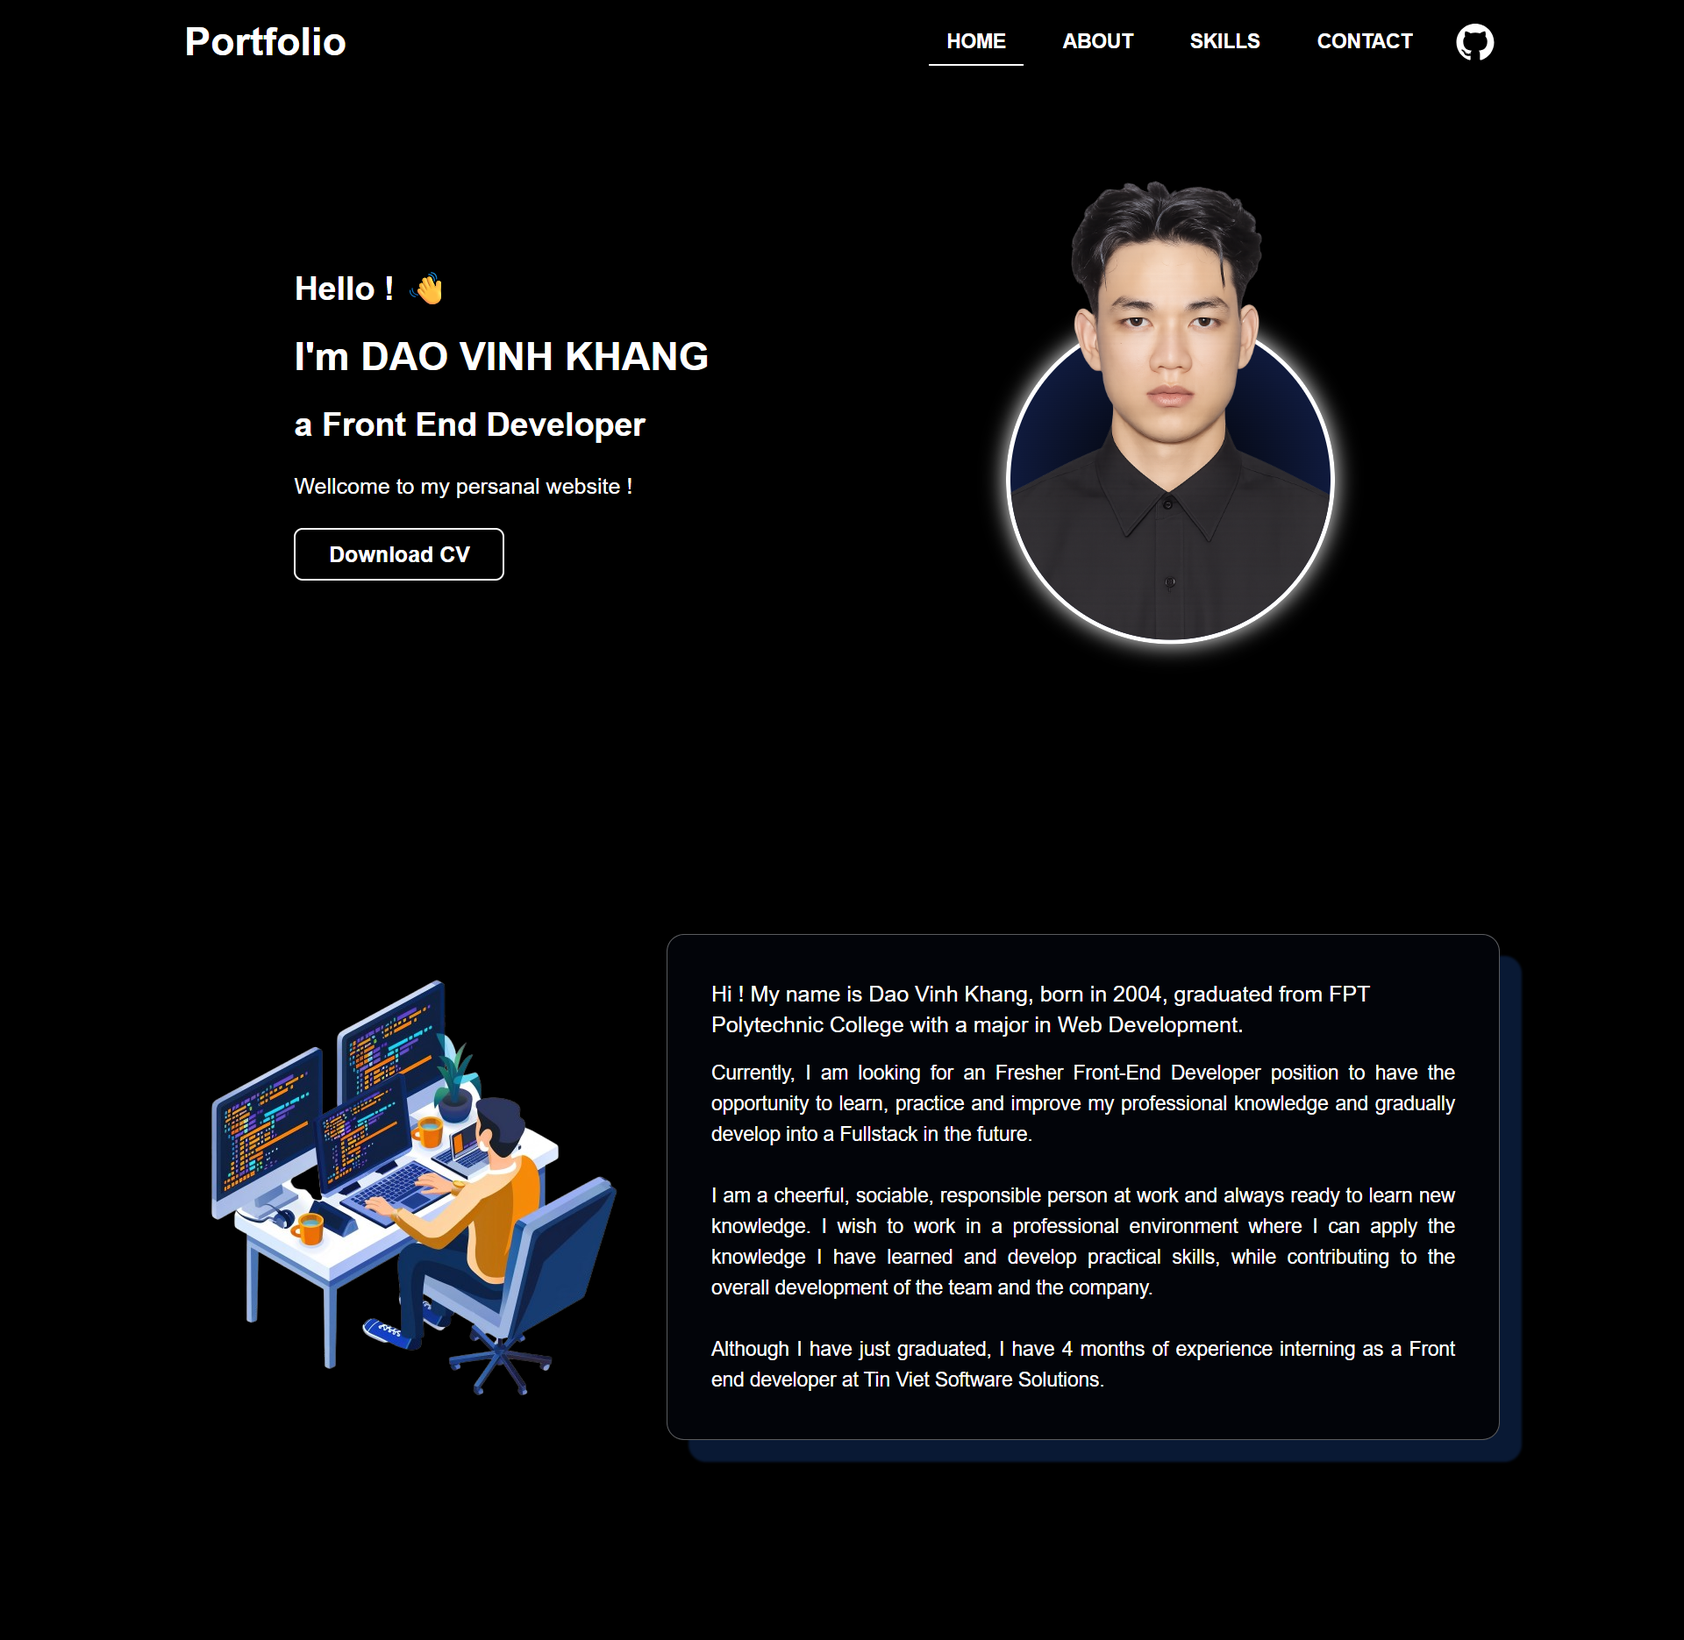
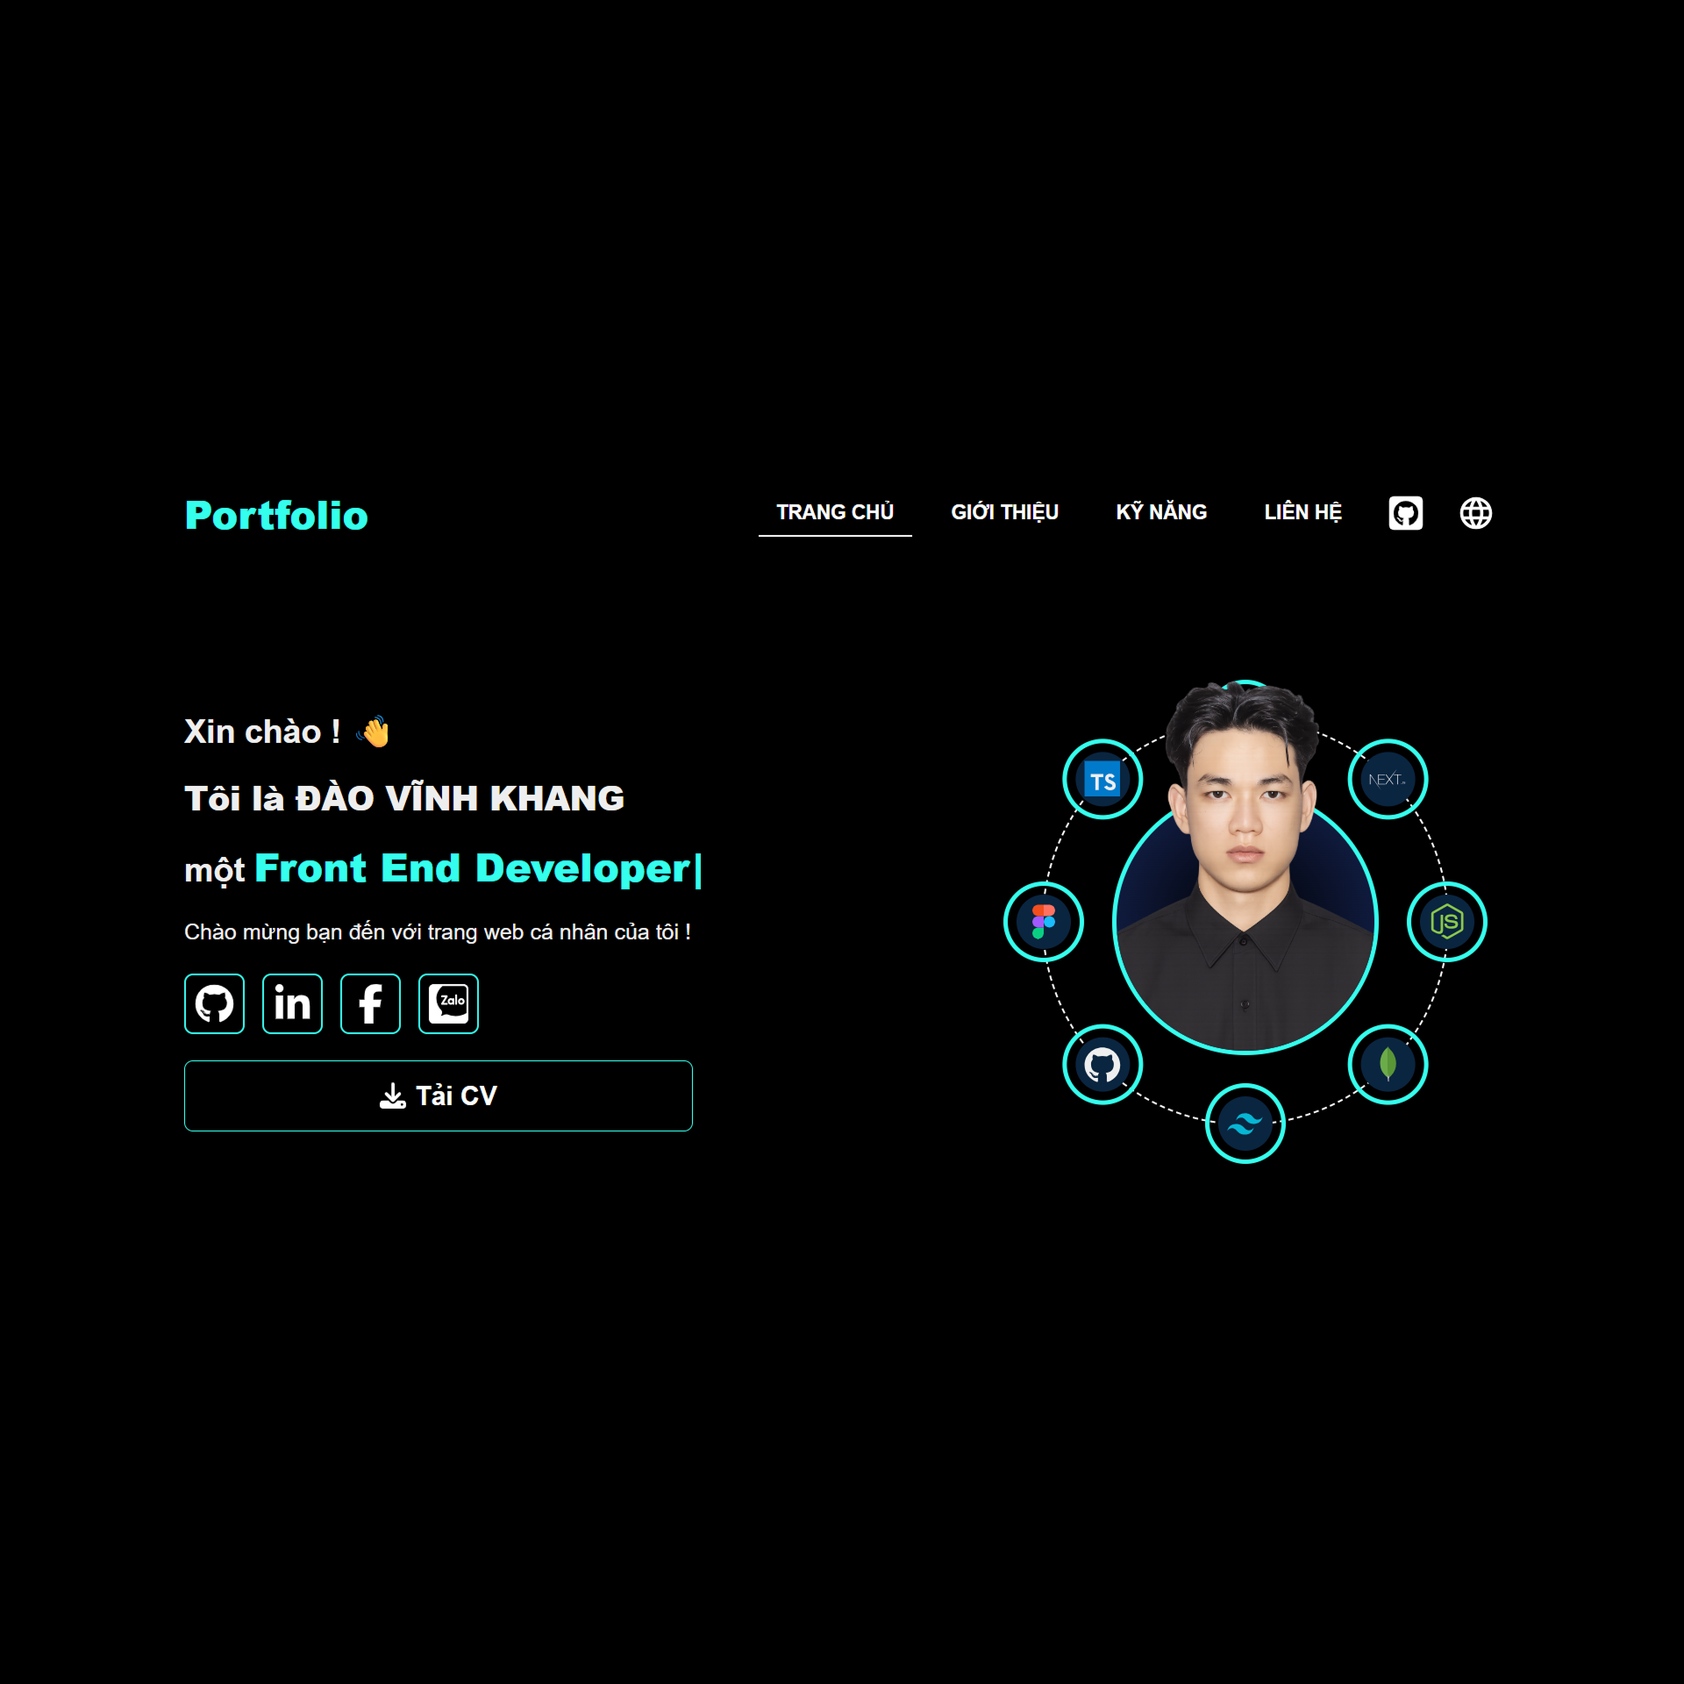
cập nhật giao diện và data

diff --git a/src/components/sections/Home.tsx b/src/components/sections/Home.tsx
@@ -62,19 +62,19 @@ export default function Home() {
             href="https://www.linkedin.com/in/khangdao0311/"
             className="p-2 border-2 border-[theme(--primary-light)] group hover:bg-[theme(--primary-light)] rounded-lg hover:scale-125 transition-transform duration-200 cursor-pointer"
           >
-            <FaLinkedinIn className="w-9 h-9 text-white  group-hover:text-[theme(--primary-dark)]" />
+            <FaLinkedinIn className="w-9 h-9 text-white group-hover:text-[theme(--primary-dark)]" />
           </a>
           <a
             href="https://www.facebook.com/profile.php?id=61564139123358"
             className="p-2 border-2 border-[theme(--primary-light)] group hover:bg-[theme(--primary-light)] rounded-lg hover:scale-125 transition-transform duration-200 cursor-pointer"
           >
-            <FaFacebookF className="w-9 h-9 text-white  group-hover:text-[theme(--primary-dark)]" />
+            <FaFacebookF className="w-9 h-9 text-white group-hover:text-[theme(--primary-dark)]" />
           </a>
           <a
             href="https://zalo.me/84976382553"
             className="p-2 border-2 border-[theme(--primary-light)] group hover:bg-[theme(--primary-light)] rounded-lg hover:scale-125 transition-transform duration-200 cursor-pointer"
           >
-            <Icon.zalo className="w-9 h-9 text-white  group-hover:text-[theme(--primary-dark)]" />
+            <Icon.zalo className="w-9 h-9 text-white group-hover:text-[theme(--primary-dark)]" />
           </a>
         </div>
         <a
@@ -98,6 +98,11 @@ export default function Home() {
                 <Icon.reactjs className="w-full h-full" />
               </span>
             </button>
+            <button className="w-[20%] !aspect-square animate-spin-reverse-slow absolute right-0 translate-x-1/2 top-1/2 -translate-y-1/2 rounded-full border-4 border-[theme(--primary-light)] p-2">
+              <span className="center-flex w-full !aspect-square bg-[theme(--primary-dark)] overflow-hidden rounded-full p-1">
+                <Icon.nodejs className="w-full h-full" />
+              </span>
+            </button>
             <button className="w-[20%] !aspect-square animate-spin-reverse-slow absolute left-1/2 -translate-x-1/2 bottom-0 translate-y-1/2 rounded-full border-4 border-[theme(--primary-light)] p-2">
               <span className="center-flex w-full !aspect-square bg-[theme(--primary-dark)] overflow-hidden rounded-full p-1">
                 <Icon.tailwindcss className="w-full h-full" />
@@ -108,17 +113,17 @@ export default function Home() {
                 <Icon.figma className="w-full h-full" />
               </span>
             </button>
-            <button className="w-[20%] !aspect-square animate-spin-reverse-slow absolute right-0 translate-x-1/2 top-1/2 -translate-y-1/2 rounded-full border-4 border-[theme(--primary-light)] p-2">
-              <span className="center-flex w-full !aspect-square bg-[theme(--primary-dark)] overflow-hidden rounded-full p-1">
-                <Icon.nodejs className="w-full h-full" />
-              </span>
-            </button>
           </div>
           {/* item2 */}
           <div className="absolute inset-0 w-full aspect-square rotate-45 animate-spin-slow">
             <button className="w-[20%] !aspect-square animate-spin-reverse-slow -rotate-45 absolute left-1/2 -translate-x-1/2 top-0 -translate-y-1/2 rounded-full border-4 border-[theme(--primary-light)] p-2">
               <span className="center-flex w-full !aspect-square bg-[theme(--primary-dark)] overflow-hidden rounded-full p-1">
                 <Icon.nextjs className="w-full h-full" />
+              </span>
+            </button>
+            <button className="w-[20%] !aspect-square animate-spin-reverse-slow -rotate-45 absolute right-0 translate-x-1/2 top-1/2 -translate-y-1/2 rounded-full border-4 border-[theme(--primary-light)] p-2">
+              <span className="center-flex w-full !aspect-square bg-[theme(--primary-dark)] overflow-hidden rounded-full p-1">
+                <Icon.mongodb className="w-full h-full" />
               </span>
             </button>
             <button className="w-[20%] !aspect-square animate-spin-reverse-slow -rotate-45 absolute left-1/2 -translate-x-1/2 bottom-0 translate-y-1/2 rounded-full border-4 border-[theme(--primary-light)] p-2">
@@ -129,11 +134,6 @@ export default function Home() {
             <button className="w-[20%] !aspect-square animate-spin-reverse-slow -rotate-45 absolute left-0 -translate-x-1/2 top-1/2 -translate-y-1/2 rounded-full border-4 border-[theme(--primary-light)] p-2">
               <span className="center-flex w-full !aspect-square bg-[theme(--primary-dark)] overflow-hidden rounded-full p-1">
                 <Icon.ts className="w-full h-full" />
-              </span>
-            </button>
-            <button className="w-[20%] !aspect-square animate-spin-reverse-slow -rotate-45 absolute right-0 translate-x-1/2 top-1/2 -translate-y-1/2 rounded-full border-4 border-[theme(--primary-light)] p-2">
-              <span className="center-flex w-full !aspect-square bg-[theme(--primary-dark)] overflow-hidden rounded-full p-1">
-                <Icon.mongodb className="w-full h-full" />
               </span>
             </button>
           </div>

diff --git a/src/components/sections/Skill.tsx b/src/components/sections/Skill.tsx
@@ -6,9 +6,9 @@ import { AnimatePresence } from "motion/react";
 import { motion } from "framer-motion";
 import { useTranslations } from "next-intl";
 import { Swiper, SwiperSlide } from "swiper/react";
+import { EffectCards } from "swiper/modules";
 import "swiper/css";
 import "swiper/css/effect-cards";
-import { EffectCards } from "swiper/modules";
 
 import { getProjects, getSkills } from "@/data";
 
@@ -19,7 +19,7 @@ function Skill() {
   const projects = useMemo(() => getProjects(t), [t]);
 
   const projectCard = (project: any) => (
-    <div className="overflow-hidden relative p-4 shadow-[0_0_4px_gray] rounded-xl group !bg-black border-2 border-[theme(--primary-light)] h-full h-full">
+    <div className="overflow-hidden relative p-4 rounded-xl group !bg-black border border-[theme(--primary-light)] h-full hover:scale-105 transition-all duration-300">
       <div className="relative z-20 flex flex-col gap-2.5 ">
         <Image.PreviewGroup items={project.gallery}>
           <Image
@@ -68,7 +68,6 @@ function Skill() {
           ))}
         </div>
       </div>
-      <span className="z-10 absolute w-1/2 h-full top-0 left-0 rotate-45 -translate-1/2 group-hover:top-[100%] group-hover:left-[100%] bg-blue-800 blur-xl transition-all duration-700" />
     </div>
   );
 
@@ -103,20 +102,20 @@ function Skill() {
                           delay: index * 0.05,
                         }}
                         key={`${activeTabKey}-${index}`}
-                        className="relative flex px-4 py-3 gap-4 items-center border-white rounded-lg overflow-hidden group bg-blue-500/20 select-none"
                       >
-                        <div className="z-20 w-1/4 shrink-0 aspect-square rounded-lg flex items-center justify-center">
-                          <skill.icon className="w-[90%] shrink-0 " />
+                        <div className="relative z-20 flex px-4 py-3 gap-4 items-center justify-center w-full h-full rounded border-x-4 border-[theme(--primary-light)] overflow-hidden group bg-[theme(--primary-dark)] select-none hover:scale-110 transition-all duration-300">
+                          <div className="z-20 w-1/4 shrink-0 aspect-square rounded-lg flex items-center justify-center transition-all duration-300 group-hover:bg-black border-2 border-transparent group-hover:border-[theme(--primary-light)]">
+                            <skill.icon className="w-[90%] shrink-0" />
+                          </div>
+                          <div className="z-20 w-full h-full relative flex flex-col transition-all overflow-hidden">
+                            <p className="absolute left-0 top-1/2 -translate-y-full sm:-translate-y-1/2 group-hover:-translate-y-full text-[theme(--primary-light)] sm:text-white group-hover:text-[theme(--primary-light)] transition-all duration-300 text-xl font-bold line-clamp-1">
+                              {skill.name}
+                            </p>
+                            <p className="absolute left-0 top-1/2 sm:top-full group-hover:top-1/2 transition-all duration-500 text-md font-medium line-clamp-1">
+                              {skill.level}
+                            </p>
+                          </div>
                         </div>
-                        <div className="z-20 w-full h-full relative flex flex-col transition-all overflow-hidden">
-                          <p className="absolute left-0 top-1/2 -translate-y-1/2 group-hover:-translate-y-full transition-all duration-300 text-xl font-bold line-clamp-1">
-                            {skill.name}
-                          </p>
-                          <p className="absolute left-0 top-full group-hover:top-1/2 transition-all duration-500 text-md font-medium line-clamp-1">
-                            {skill.level}
-                          </p>
-                        </div>
-                        <span className="z-10 absolute w-full translate-1/2 group-hover:-translate-1/3 blur-2xl aspect-square bg-blue-800 shadow-[0_0_20px_#1c398e] transition-all duration-500"></span>
                       </motion.div>
                     );
                   })}

diff --git a/src/components/sections/About.tsx b/src/components/sections/About.tsx
@@ -1,5 +1,4 @@
 import { useTranslations } from "next-intl";
-import images from "@/assets/image";
 import { FaCode, FaGraduationCap } from "react-icons/fa6";
 
 function About() {
@@ -7,44 +6,46 @@ function About() {
   return (
     <section id="about" className="relative min-h-screen center-flex pt-20">
       <div className="w-full grid grid-cols-1 lg:grid-cols-2 gap-6 lg:gap-10">
+        {/* 1 */}
         <div
           data-aos="fade-down-right"
-          data-aos-duration="0"
+          data-aos-duration="500"
           className="w-full h-auto center-flex"
         >
-          <div className="w-full h-full center-flex gap-4 border-t-8 border-[theme(--primary-light)] rounded-lg bg-[theme(--primary-dark)] py-6 px-10 hover:scale-105 transition-all duration-500">
+          <div className="w-full h-full center-flex gap-4 border-t-4 border-[theme(--primary-light)] rounded-b-xl bg-[theme(--primary-dark)] py-6 px-10 hover:scale-105 transition-all duration-300">
             <div className="w-20 aspect-square">
               <FaGraduationCap className="w-full h-full text-[theme(--secondary)]" />
             </div>
             <p className="flex-1 text-justify">{t("1")}</p>
           </div>
         </div>
-
-        {/*  */}
+        {/* 2 */}
         <div
           data-aos="fade-down-left"
-          data-aos-duration="1000"
+          data-aos-duration="650"
           className="w-full h-auto center-flex"
         >
-          <div className="w-full h-full center-flex gap-4 border-t-8 border-[theme(--primary-light)] rounded-lg bg-[theme(--primary-dark)] py-6 px-10 hover:scale-105 transition-all duration-500">
+          <div className="w-full h-full center-flex gap-4 border-t-4 border-[theme(--primary-light)] rounded-b-xl bg-[theme(--primary-dark)] py-6 px-10 hover:scale-105 transition-all duration-300">
             <p className="flex-1 text-justify">{t("2")}</p>
           </div>
         </div>
+        {/* 3 */}
         <div
           data-aos="fade-up-right"
-          data-aos-duration="1500"
+          data-aos-duration="800"
           className="w-full h-auto center-flex"
         >
-          <div className="w-full h-full center-flex gap-4 border-t-8 border-[theme(--primary-light)] rounded-lg bg-[theme(--primary-dark)] py-6 px-10 hover:scale-105 transition-all duration-500">
+          <div className="w-full h-full center-flex gap-4 border-t-4 border-[theme(--primary-light)] rounded-b-xl bg-[theme(--primary-dark)] py-6 px-10 hover:scale-105 transition-all duration-300">
             <p className="flex-1 text-justify">{t("3")}</p>
           </div>
         </div>
+        {/* 4 */}
         <div
           data-aos="fade-up-left"
-          data-aos-duration="2000"
+          data-aos-duration="950"
           className="w-full h-auto center-flex"
         >
-          <div className="w-full h-full center-flex gap-4 border-t-8 border-[theme(--primary-light)] rounded-lg bg-[theme(--primary-dark)] py-6 px-10 hover:scale-105 transition-all duration-500">
+          <div className="w-full h-full center-flex gap-4 border-t-4 border-[theme(--primary-light)] rounded-b-xl bg-[theme(--primary-dark)] py-6 px-10 hover:scale-105 transition-all duration-300">
             <div className="w-20 aspect-square">
               <FaCode className="w-full h-full text-[theme(--secondary)]" />
             </div>

diff --git a/src/components/sections/Contact.tsx b/src/components/sections/Contact.tsx
@@ -78,22 +78,42 @@ function Contact() {
       id="contact"
       className="min-h-screen center-flex flex-col lg:flex-row gap-20 pt-20"
     >
-      <div data-aos="fade-right" className=" flex flex-col gap-10">
-        <h2 className="text-4xl font-bold">{t("profile")}</h2>
+      <div className=" flex flex-col gap-10">
+        <h2
+          data-aos="fade-right"
+          data-aos-duration="400"
+          className="text-4xl font-bold"
+        >
+          {t("profile")}
+        </h2>
         <div className="flex flex-col gap-10">
-          <div className="flex gap-10 items-center">
+          <div
+            data-aos="fade-right"
+            data-aos-duration="500"
+            className="flex gap-10 items-center"
+          >
             <IoMail className="w-10 h-10" />
             <span className="text-xl font-bold ">khangdao0311@gmail.com</span>
           </div>
-          <div className="flex gap-10 items-center">
+          <div
+            data-aos="fade-right"
+            data-aos-duration="600"
+            className="flex gap-10 items-center"
+          >
             <FaPhone className="w-10 h-10" />
             <span className="text-xl font-bold ">0976 382 553</span>
           </div>
-          <div className="flex gap-10 items-center">
+          <div
+            data-aos="fade-right"
+            data-aos-duration="700"
+            className="flex gap-10 items-center"
+          >
             <FaMapMarkerAlt className="w-10 h-10" />
             <span className="text-xl font-bold ">{t("address")}</span>
           </div>
           <a
+            data-aos="fade-right"
+            data-aos-duration="800"
             href="https://github.com/Khangdao0311"
             className="flex gap-10 items-center"
           >
@@ -104,7 +124,7 @@ function Contact() {
       </div>
       <div
         data-aos="zoom-in-down"
-        className="w-full max-w-[500px] p-6 sm:p-10 border-4 border-[theme(--primary-light)] shadow-[0_0_10px_#FFF] rounded-xl bg-white/5"
+        className="w-full max-w-[500px] p-6 sm:p-10 border-2 border-[theme(--primary-light)] rounded-xl"
       >
         <h2 className="text-3xl font-semibold text-white mb-4 text-center">
           {t("contactMe")}

diff --git a/src/data/index.ts b/src/data/index.ts
@@ -61,14 +61,6 @@ export const getSkills = (t: (key: string) => string) => [
 
 export const getProjects = (t: (key: string) => string) => [
   {
-    image: images.portfolio,
-    gallery: [images.portfolio],
-    name: t("projectList.portfolio.name"),
-    description: t("projectList.portfolio.description"),
-    href: "https://khangdao0311-portfolio.vercel.app/",
-    technologies: ["NextJS", "TailwindCSS"],
-  },
-  {
     image: images.elecking,
     gallery: [
       images.elecking,
@@ -114,6 +106,14 @@ export const getProjects = (t: (key: string) => string) => [
     description: t("projectList.elecking.description"),
     href: "https://github.com/khangdao0311",
     technologies: ["NextJS", "TailwindCSS", "NodeJS (ExpressJS)", "MongoDB"],
+  },
+  {
+    image: images.portfolio,
+    gallery: [images.portfolio],
+    name: t("projectList.portfolio.name"),
+    description: t("projectList.portfolio.description"),
+    href: "https://khangdao0311-portfolio.vercel.app/",
+    technologies: ["NextJS", "TailwindCSS"],
   },
   {
     image: images.cellphones,

diff --git a/src/app/[locale]/page.tsx b/src/app/[locale]/page.tsx
@@ -12,7 +12,6 @@ import ModalNotification from "@/components/ModalNotification";
 export async function generateMetadata(): Promise<Metadata> {
   const locale = await getLocale();
   const t = await getTranslations({ locale, namespace: "metadata" });
-
   return {
     title: t("title"),
     description: t("description"),

diff --git a/src/i18n/routing.ts b/src/i18n/routing.ts
@@ -2,5 +2,6 @@ import { defineRouting } from "next-intl/routing";
 
 export const routing = defineRouting({
   locales: ["en", "vi"],
-  defaultLocale: "vi",
+  defaultLocale: "en",
 });
+``

diff --git a/src/app/globals.css b/src/app/globals.css
@@ -11,7 +11,6 @@ html {
   scroll-snap-type: y mandatory;
 }
 
-
 @layer components {
   .container-custom {
     @apply container xl:max-w-[1200px] mx-auto;

diff --git a/src/app/layout.tsx b/src/app/layout.tsx
@@ -14,3 +14,4 @@ export default function RootLayout({
 }) {
   return <AntdRegistry>{children}</AntdRegistry>;
 }
+  
